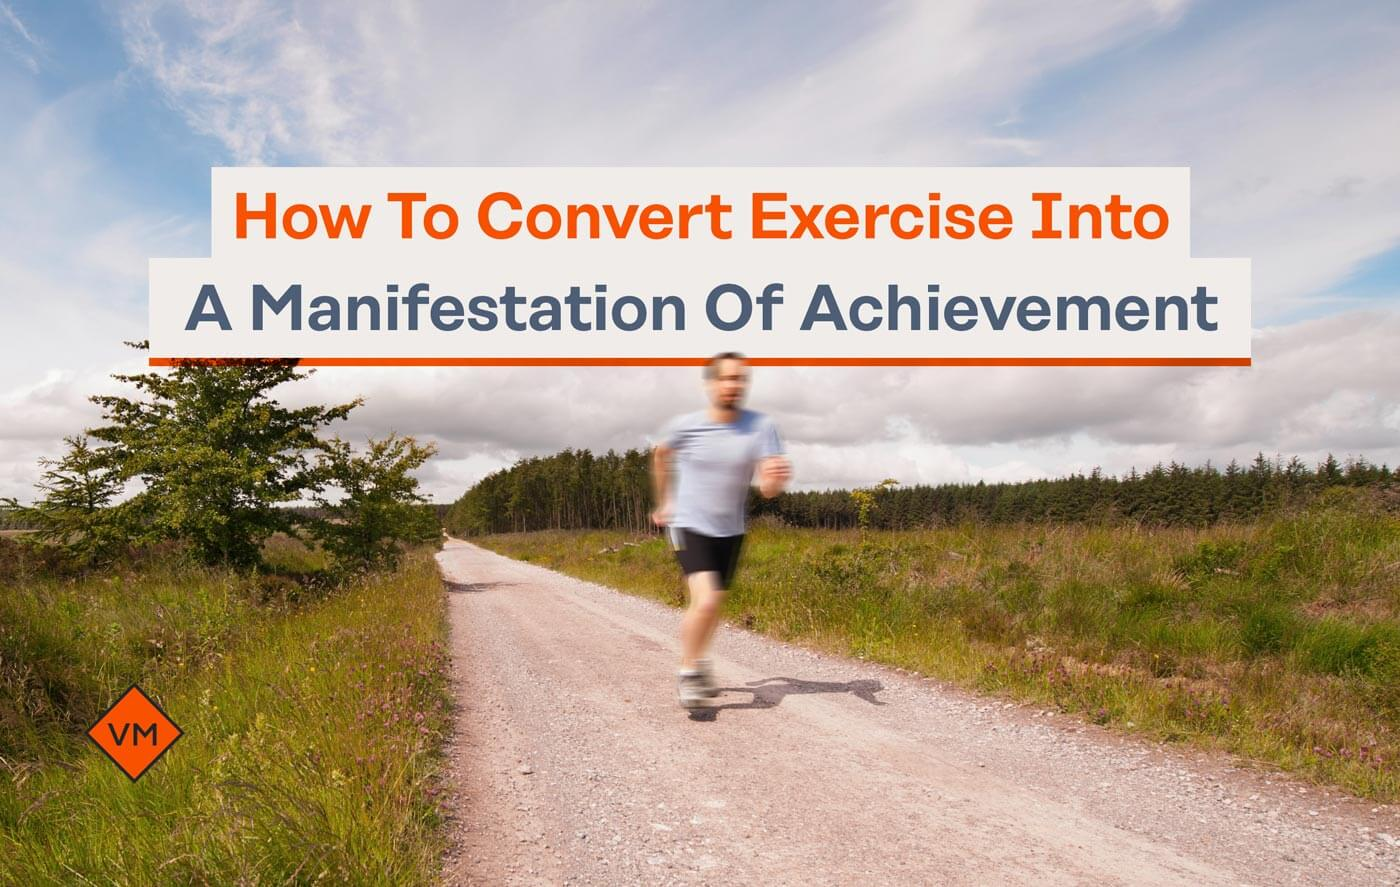
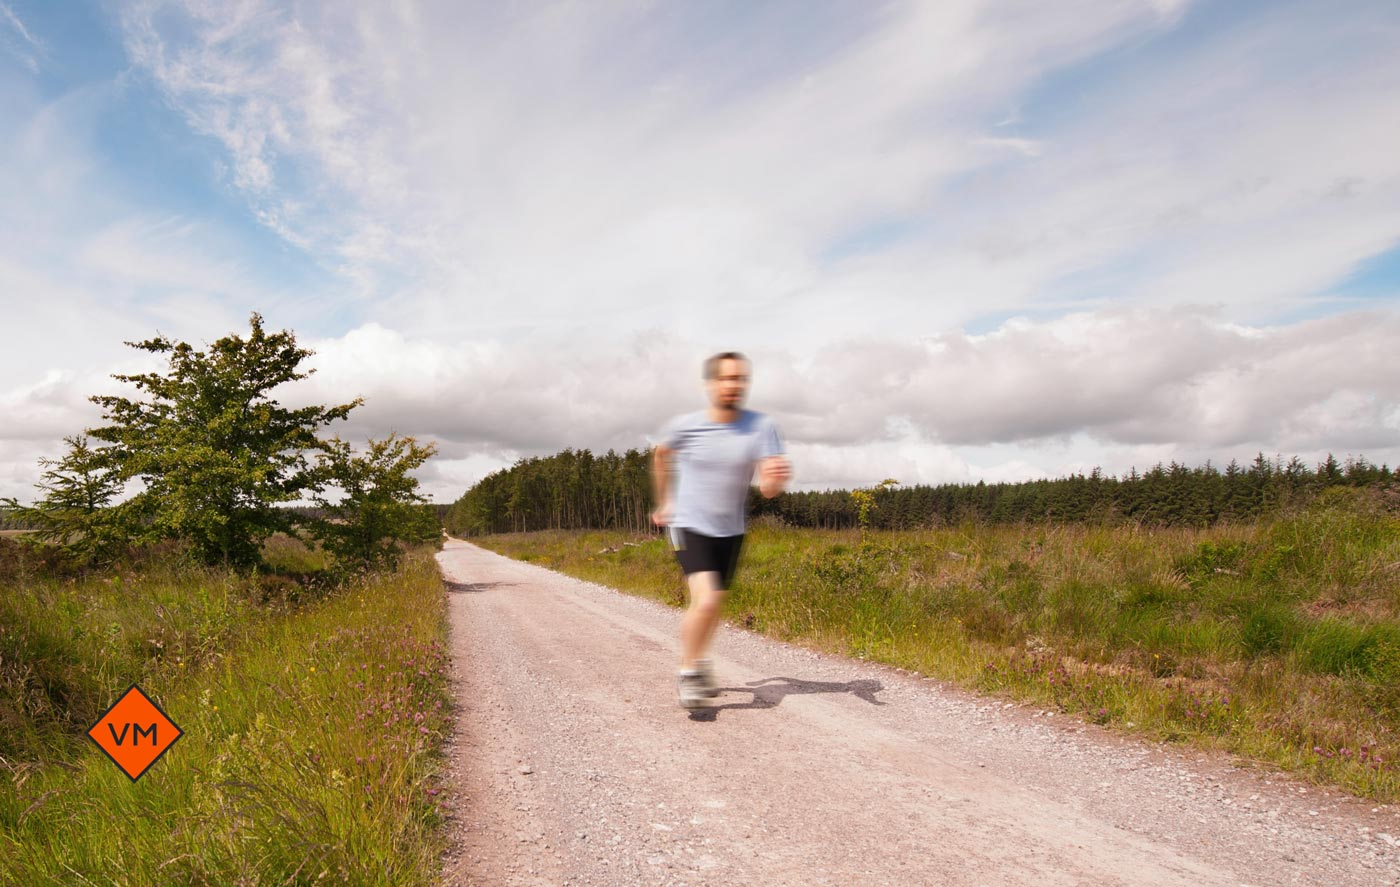
Update image desc logic to accommodate share img

Changed region(s): [[0.0921, 0.1826, 0.8907, 0.4262]]

diff --git a/routes/index.js b/routes/index.js
@@ -62,6 +62,10 @@ router.get('/blog/:filename', async (req, res) => {
   postMetaData.homeUrl = req.protocol + '://' + req.get('host')
   postMetaData.imageFullUrl = postMetaData.homeUrl + postMetaData.image
 
+  if (postMetaData.imageForShare !== undefined) {
+    postMetaData.imageForShareFullUrl = postMetaData.homeUrl + postMetaData.imageForShare
+  }
+
   getEnv(req.get('host'))
 
   if (!postMetaData) {

diff --git a/content/articles/guilt-free-recharging-is-essential.md b/content/articles/guilt-free-recharging-is-essential.md
@@ -5,7 +5,7 @@ prettyDate: September 4th, 2020
 author: Vasily Myazin
 description: I used to think that I was wasting time taking a break, a day-off, or even a short vacation. Turns out most of us should do it to stay sane and productive.
 image: /images/blog/beach-relax.jpg
-image_desc: Photo by Ruel Madelo, taken in Badian, Philippines
+imageDesc: Photo by Ruel Madelo, taken in Badian, Philippines
 tags: rest, productivity, introverts, recharge
 ---
 **It is easy to forget that taking some rest is essential. Somehow it is drilled into us, the wanna-be hustler types, that we must work and only take minimal rest. It seems like if you want to achieve something outstanding you must not lay your head down even on the weekends.** It looks like it when we examine [influential people's social media](https://www.thechicagoschool.edu/insight/from-the-magazine/a-virtual-life/). They sure look like they never rest, and spit out pearls of wisdom on Twitter even on weekends and late at night. What is vastly overlooked is the need to take substantial breaks from your daily tasks and long-term missions. It concerns those who are on the introverted side, like myself, even more. If for several days straight I'm deeply involved in conversations and problem solving in a collective, be it online or in-person, it is imperative for me to take a break in solitude. And even then the guilty feeling that I'm not spending my time on something practical, something that will move the needle, creeps up.

diff --git a/content/articles/grounded-while-traveling-frequently.md b/content/articles/grounded-while-traveling-frequently.md
@@ -5,7 +5,7 @@ prettyDate: September 7th, 2020
 author: Vasily Myazin
 description: Moving around and constantly readjusting to new environments is not normal for most people. Being nomadic – part- or full-time – takes some effort to start enjoying. Here are my insights about that.
 image: /images/blog/cozy-room.jpg
-image_desc: Photo by pixabay.com
+imageDesc: Photo by pixabay.com
 tags: traveling, training, tips
 ---
 **Those who know me personally are familiar with my insatiable appetite for traveling. Be it around the current locale, a next city over or long-distance international travel – I love to traverse the globe. It wasn’t innate in me to be comfortable with not knowing what exactly to expect on the other side. To set the stage for you: I typically travel alone, that’s my favorite way so far. The points I share below are made with the solo traveler in mind but can be applied to couples and groups of tight friends as well.**

diff --git a/content/articles/how-cleaning-your-place-creates-a-remarkable-lasting-effect-on-your-day.md b/content/articles/how-cleaning-your-place-creates-a-remarkable-lasting-effect-on-your-day.md
@@ -5,7 +5,7 @@ prettyDate: October 8th, 2020
 author: Vasily Myazin
 description: In a messy environment your thoughts tend to get stuck in the clogged pipes of your unfocused mind. In a clean environment clear thoughts start gathering: pointed, potent and unrestrained.
 image: /images/blog/kitchen-before-after.jpg
-image_desc: Photo by Curtis Adams, collage by Vasily Myazin
+imageDesc: Photo by Curtis Adams, collage by Vasily Myazin
 tags: productivity, cleaning, focus
 ---
 **I’ve seen some nasty looking dwellings in my day. And I mean so messy and disorganized that it made wonder whether the person living there was depressed or distressed. More often than not, it’s a simple act of neglect whose effect rapidly accumulates over time. At that stage it seems futile to do anything about it and their brain just accepts it as a norm.**

diff --git a/content/articles/a-miracle-formula-for-making-ideas-a-reality.md b/content/articles/a-miracle-formula-for-making-ideas-a-reality.md
@@ -5,7 +5,7 @@ prettyDate: September 27th, 2020
 author: Vasily Myazin
 description: Being proactive and jotting down your ideas will help you materialize them. I do it for myself and encourage others to use this simple trick.
 image: /images/blog/note-taking.jpg
-image_desc: Photo by Judit Peter
+imageDesc: Photo by Judit Peter
 tags: ideas, notes, friends, hustle
 ---
 **I’ve developed a habit. Whenever I have an impulse to do something, I make the smallest first step to start making it a reality. For example, I have an idea for a blog post, I create a new document Google Docs and start typing something. I tell myself: I just need to get an idea out on the screen, just an outline and then I can close the laptop and go on with my day. As conventional wisdom goes, where there's 30 words, there’s a hundred and it goes on.**

diff --git a/content/articles/how-to-convert-exercise-into-a-manifestation-of-achievement.md b/content/articles/how-to-convert-exercise-into-a-manifestation-of-achievement.md
@@ -5,8 +5,10 @@ prettyDate: October 13th, 2020
 author: Vasily Myazin
 description: Years ago I had an epiphany. I realized that I can connect performing an enduring physical exercise to an unrelated goal in my mind.
 image: /images/blog/running-man.jpg
-image_desc: Photo by Jenny Hill on Unsplash
+imageDesc: Photo by Jenny Hill on Unsplash
+imageForShare: /images/blog/running-man-share.jpg
 tags: exercise, endurance, training, goals
+published: false
 ---
 
 **Years ago I had an epiphany. I realized that I can connect performing an enduring physical exercise (running, weight training, taking a hot sauna) to a goal fixed in my mind. I pick the most pertinent goal of the current stage of life and imagine that focusing on the exercise is a rehearsal for achieving the goal.**

diff --git a/content/articles/how-to-deal-with-perfectionism-without-being-afraid-of-imperfect-results.md b/content/articles/how-to-deal-with-perfectionism-without-being-afraid-of-imperfect-results.md
@@ -5,7 +5,7 @@ prettyDate: September 14th, 2020
 author: Vasily Myazin
 description: The absolute worst way to deal with perfectionism is to give in to it. When we want to achieve something great we should be okay shortcomings.
 image: /images/blog/sand-castle.jpg
-image_desc: Photo by Jaime Spaniol, taken in Armação dos Búzios, Brazil
+imageDesc: Photo by Jaime Spaniol, taken in Armação dos Búzios, Brazil
 tags: perfectionism, productivity, results
 ---
 **Getting desired results for set goals is incredibly important. After all, when we get fired up by an idea and set it in motion, we want to achieve something that in the end will resemble what we had in mind.**

diff --git a/content/articles/one-startling-realization-about-sleep.md b/content/articles/one-startling-realization-about-sleep.md
@@ -5,7 +5,7 @@ prettyDate: September 24th, 2020
 author: Vasily Myazin
 description: In the modern world we come to expect a perfect setting for sleep every night. I realized it was a pipe dream all along.
 image: /images/blog/nature-sleep.jpg
-image_desc: Photo by pixabay.com
+imageDesc: Photo by pixabay.com
 tags: sleep, rest, traveling, natural
 ---
 **My obsession with perfect sleep every night might be a fantasy. I realized it during a road trip with the help of a friend of mine. Early in the morning we woke up in a nice two-bed hotel room in Washington DC where we stayed for one night. He asked me: “How did you sleep?”**

diff --git a/README.md b/README.md
@@ -18,7 +18,7 @@ prettyDate: September 7th, 2020
 author: Vasily Myazin
 description: 
 image: /images/blog/
-image_desc: Photo by 
+imageDesc: Photo by 
 tags: 
 ---
 ```
